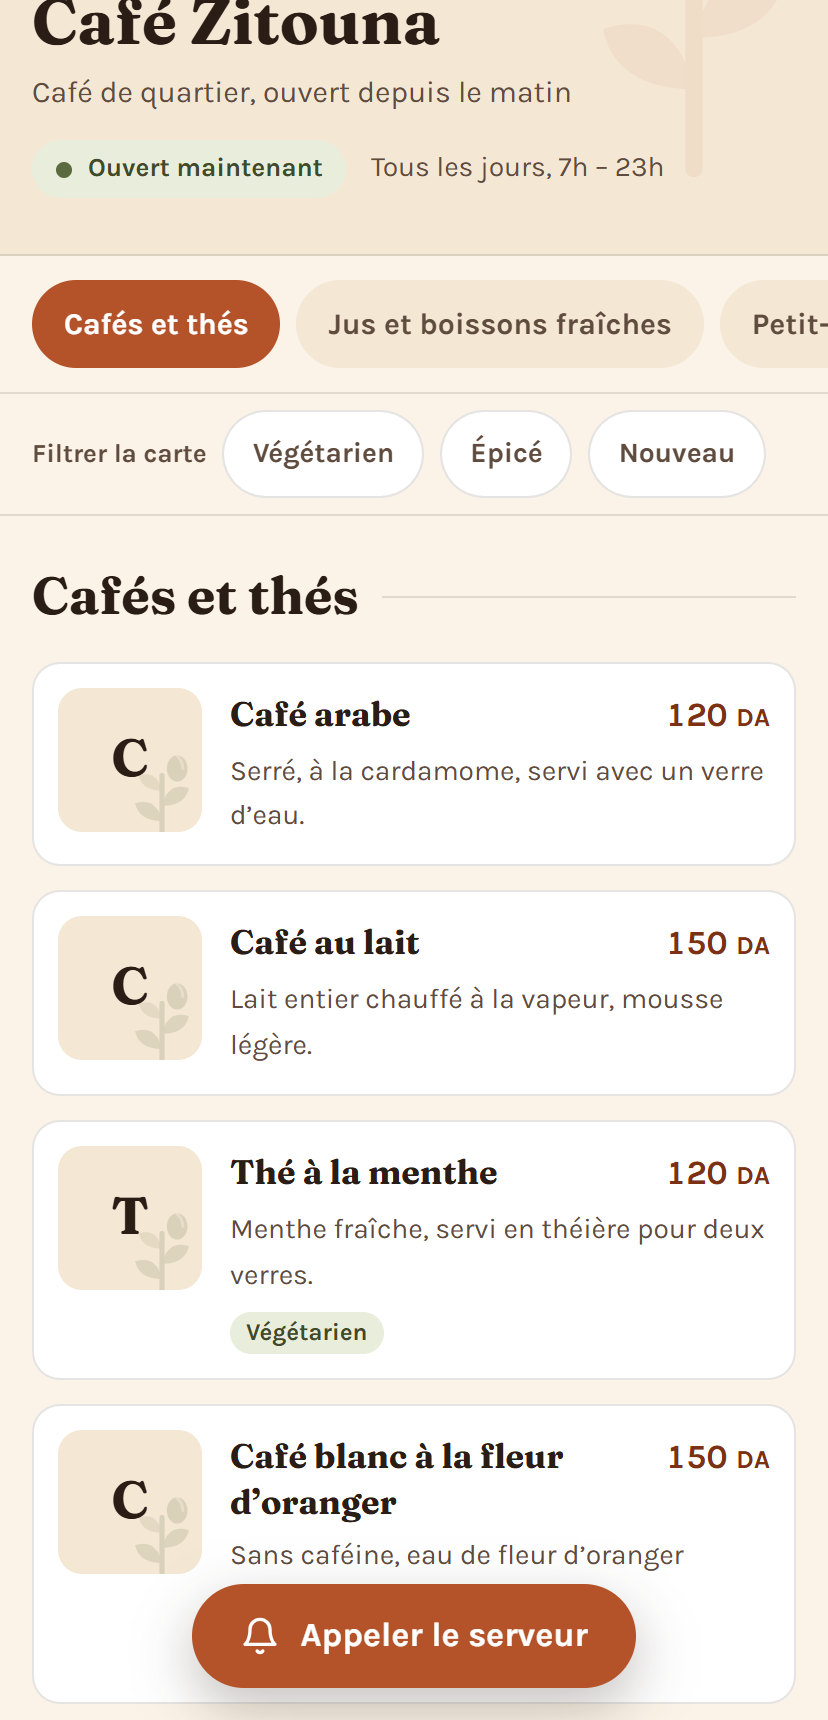
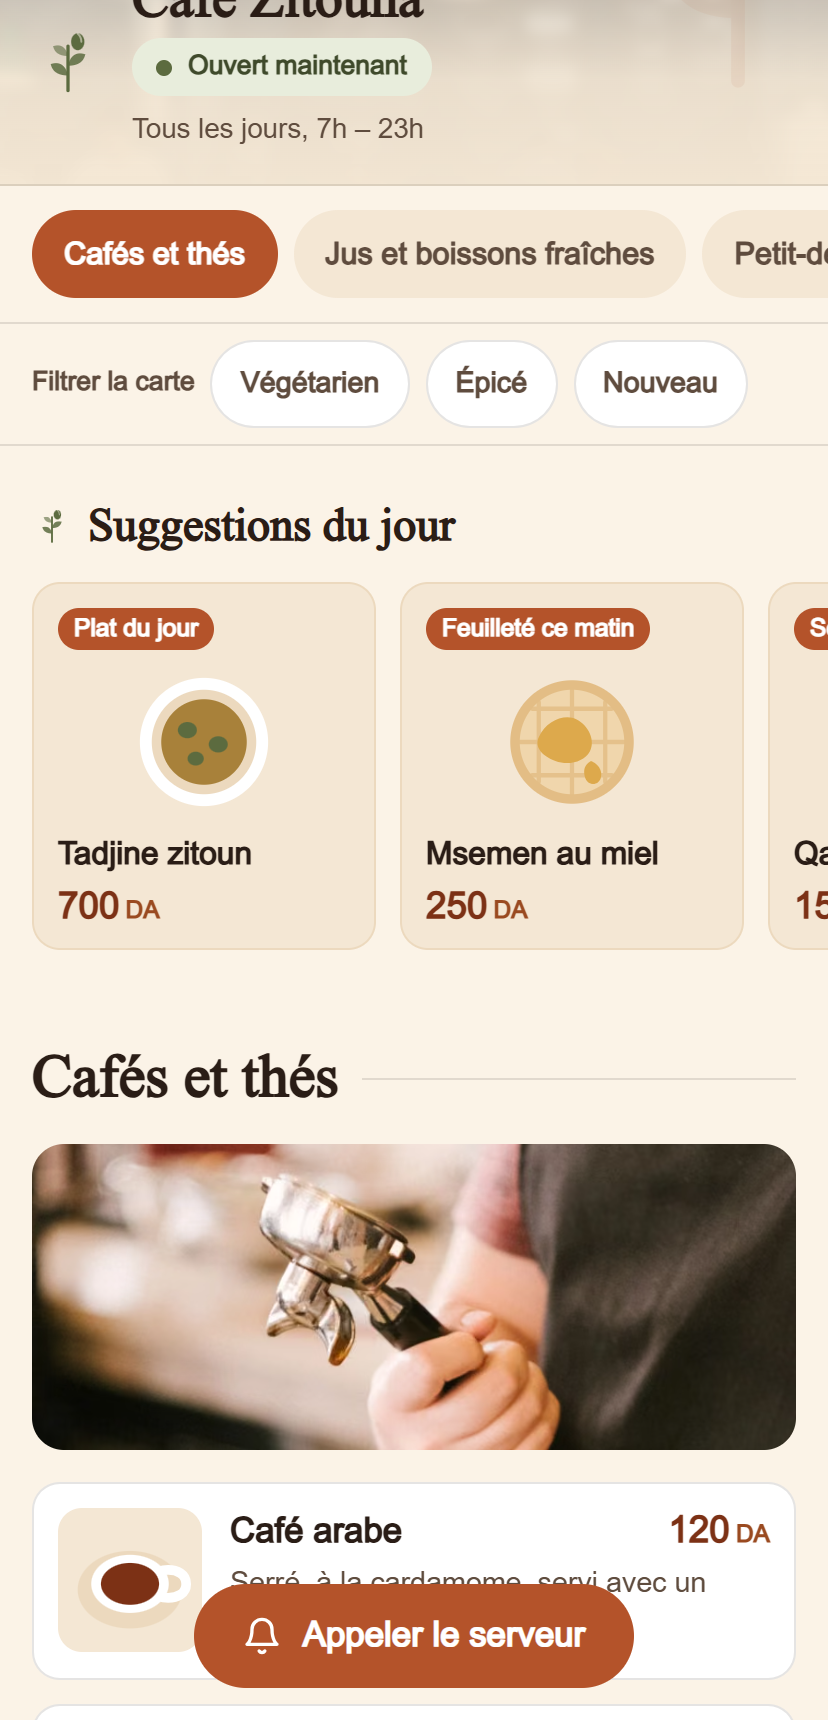
/services : le parcours de chaque démo en trois écrans réels
Sous les blocs menu QR et rendez-vous, une bande de trois écrans légendés,
pris par npm run captures en conduisant la démo (téléphone, densité 2).
Rendez-vous : la prestation, le créneau, la confirmation avec le rappel
WhatsApp. Menu : l'affiche QR, la carte, l'appel du serveur avec la
commande.

La démo du menu n'a pas d'écran gérant : le parcours « vous modifiez un
prix » n'est pas montré, et il n'est pas simulé.

Les attributs sizes annoncent 640 px sur grand écran : plus aucune capture
servie en 256 ou 384 px, donc plus d'écran flou. capture-menu.png est
refaite sur la démo actuelle. Sur mobile, la bande défile dans son cadre ;
la page ne dépasse pas.

diff --git a/content/services.ts b/content/services.ts
@@ -64,6 +64,9 @@ export type ServiceVisualSpec =
   /** Visuel dessiné, tant que la démonstration n'existe pas. */
   | { kind: 'drawn'; figure: 'boutique' | 'annonces' | 'campagne' };
 
+/** Un écran du parcours d'une démo, avec sa légende. */
+export type ServiceStep = { src: string; caption: Bilingual };
+
 export type Service = {
   /** Identifiant stable : ancre `/services#slug`, valeur du formulaire, clé d'email. */
   slug: string;
@@ -95,6 +98,12 @@ export type Service = {
   visual?: ServiceVisualSpec;
   /** Lien vers la démonstration, quand elle existe. */
   demoHref?: string;
+  /**
+   * Le parcours de la démo en trois écrans réels (`npm run captures`).
+   * Réservé aux services qui ont une démo : on ne légende pas ce qu'on ne
+   * peut pas montrer.
+   */
+  steps?: ServiceStep[];
   /**
    * Projet réel plutôt que démonstration : le showroom de meubles.
    * Il ne porte PAS la mention « fictif » — ce serait mentir dans l'autre sens.
@@ -138,6 +147,20 @@ export const services: Service[] = [
       height: 1720,
     },
     demoHref: '/demo/menu',
+    steps: [
+      {
+        src: '/services/etape-zitouna-1.png',
+        caption: { fr: 'Le client scanne', ar: 'الزبون يمسح الرمز' },
+      },
+      {
+        src: '/services/etape-zitouna-2.png',
+        caption: { fr: 'Il lit la carte', ar: 'يتصفّح القائمة' },
+      },
+      {
+        src: '/services/etape-zitouna-3.png',
+        caption: { fr: 'Il appelle le serveur', ar: 'ينادي النادل' },
+      },
+    ],
   },
   {
     slug: 'prise-de-rendez-vous',
@@ -174,6 +197,20 @@ export const services: Service[] = [
       height: 1280,
     },
     demoHref: '/demo/rendezvous',
+    steps: [
+      {
+        src: '/services/etape-el-yasmine-1.png',
+        caption: { fr: 'Le client choisit la prestation', ar: 'الزبون يختار الخدمة' },
+      },
+      {
+        src: '/services/etape-el-yasmine-2.png',
+        caption: { fr: 'Il choisit son créneau', ar: 'يختار الموعد' },
+      },
+      {
+        src: '/services/etape-el-yasmine-3.png',
+        caption: { fr: 'Il reçoit la confirmation', ar: 'يتلقّى التأكيد' },
+      },
+    ],
   },
   {
     slug: 'boutique-en-ligne',

diff --git a/components/services/ShowcaseSteps.tsx b/components/services/ShowcaseSteps.tsx
@@ -1,0 +1,56 @@
+import Image from 'next/image';
+
+import type { ServiceStep } from '@/content/services';
+import type { Locale } from '@/i18n/config';
+
+/**
+ * Le parcours d'une démo en trois écrans légendés.
+ *
+ * Une capture seule montre un écran ; trois montrent ce qui se passe. Chaque
+ * image est un état réel de la démo, produit par `npm run captures` — jamais
+ * une recomposition.
+ *
+ * Sur mobile, la bande défile horizontalement à l'intérieur de son cadre
+ * (la page, elle, ne dépasse jamais) : trois téléphones côte à côte dans
+ * 390 px seraient illisibles.
+ *
+ * `sizes` annonce 640 px sur grand écran alors que l'image en occupe moins :
+ * c'est voulu. Sans cela, Next sert la variante de 256 ou 384 px, et un
+ * écran de téléphone réduit à cette taille devient flou — le texte de la
+ * démo doit rester lisible.
+ */
+export function ShowcaseSteps({
+  steps,
+  locale,
+}: {
+  steps: ServiceStep[];
+  locale: Locale;
+}) {
+  return (
+    <ol className="-mx-5 mt-14 flex snap-x snap-mandatory gap-5 overflow-x-auto px-5 pb-2 sm:mx-0 sm:mt-20 sm:grid sm:grid-cols-3 sm:gap-6 sm:overflow-visible sm:px-0 sm:pb-0 lg:gap-10">
+      {steps.map((step, i) => (
+        <li
+          key={step.src}
+          className="flex w-[68%] shrink-0 snap-center flex-col items-center gap-4 sm:w-auto"
+        >
+          <div className="w-full max-w-[260px] rounded-[1.8rem] border border-line2 bg-ink3 p-1.5 shadow-[0_24px_50px_-24px_rgba(0,0,0,.75)]">
+            <div className="overflow-hidden rounded-[1.4rem]">
+              <Image
+                src={step.src}
+                alt={step.caption[locale]}
+                width={780}
+                height={1520}
+                sizes="(min-width: 640px) 640px, 80vw"
+                className="h-auto w-full"
+              />
+            </div>
+          </div>
+          <p className="text-center text-[15px] font-semibold leading-snug text-txt">
+            <span className="numerals text-coral2">{i + 1}.</span>{' '}
+            {step.caption[locale]}
+          </p>
+        </li>
+      ))}
+    </ol>
+  );
+}

diff --git a/components/services/ShowcaseBlock.tsx b/components/services/ShowcaseBlock.tsx
@@ -6,6 +6,7 @@ import { Container } from '@/components/ui/Container';
 import { Reveal } from '@/components/ui/Reveal';
 import { ShowcaseFigure } from '@/components/services/ShowcaseVisuals';
 import { DemoEmbed } from '@/components/services/DemoEmbed';
+import { ShowcaseSteps } from '@/components/services/ShowcaseSteps';
 import { showcaseUi, type Service } from '@/content/services';
 import type { Locale } from '@/i18n/config';
 
@@ -169,6 +170,8 @@ export function ShowcaseBlock({
             </div>
           </div>
         </div>
+
+        {item.steps ? <ShowcaseSteps steps={item.steps} locale={locale} /> : null}
       </Container>
     </section>
   );

diff --git a/components/services/ShowcaseVisuals.tsx b/components/services/ShowcaseVisuals.tsx
@@ -42,7 +42,7 @@ export function ShowcaseFigure({
           alt={alt}
           width={visual.width}
           height={visual.height}
-          sizes="(max-width: 1024px) 60vw, 300px"
+          sizes="(min-width: 768px) 640px, 80vw"
           className="h-auto w-full"
         />
       </PhoneFrame>
@@ -53,7 +53,7 @@ export function ShowcaseFigure({
           alt={alt}
           width={visual.width}
           height={visual.height}
-          sizes="(max-width: 1024px) 92vw, 620px"
+          sizes="(max-width: 1024px) 92vw, 640px"
           className="h-auto w-full"
         />
       </ScreenFrame>

diff --git a/CONTEXTE.md b/CONTEXTE.md
@@ -657,6 +657,12 @@ laisse le fichier existant intact. Les captures sont `capture-menu.png`,
 `capture-el-yasmine.png` (nom changé avec la démo : `next/image` met en cache
 par URL, un même nom aurait servi l'ancienne image) et `capture-showroom.jpg`.
 
+Chaque démo a aussi son **parcours en trois écrans** (`etape-zitouna-1…3.png`,
+`etape-el-yasmine-1…3.png`), pris en conduisant la démo sur un écran de
+téléphone. La démo du menu n'a **pas d'écran gérant** : son parcours est celui
+du client du café (affiche QR, carte, appel du serveur), pas une modification
+de prix qu'on ne sait pas montrer. Ne pas la simuler.
+
 Refaire les captures après toute modification d'une démo. Une capture faite à
 la main finit toujours par dater, et l'on se retrouve à vendre un écran qui
 n'existe plus.
